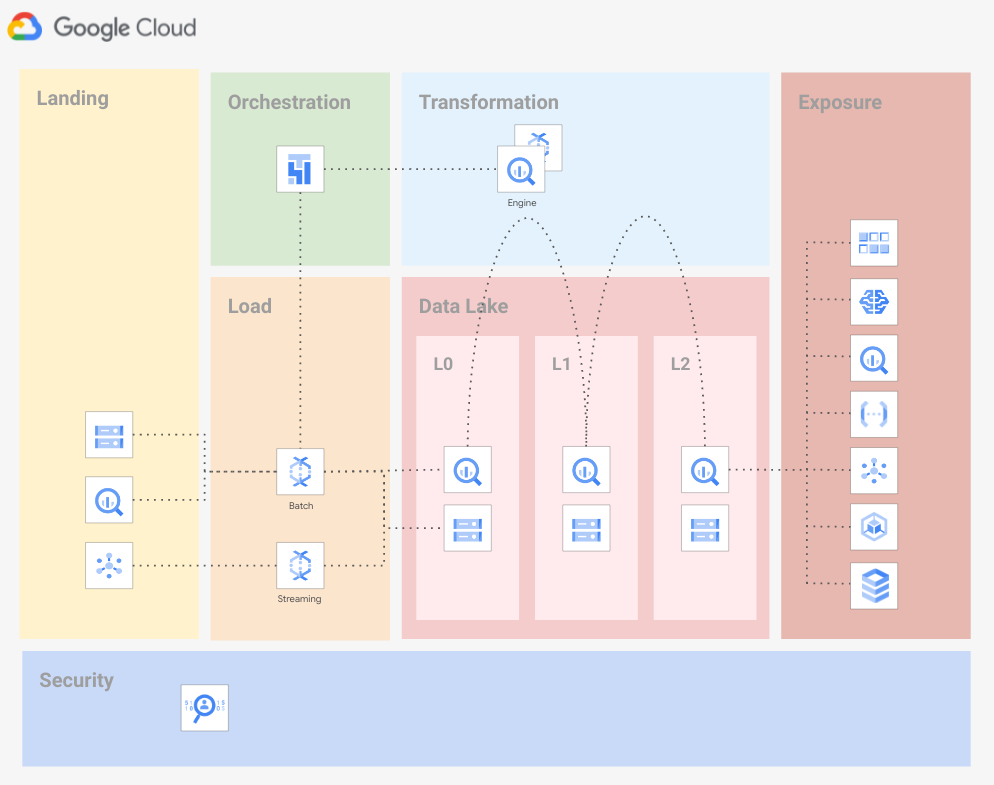
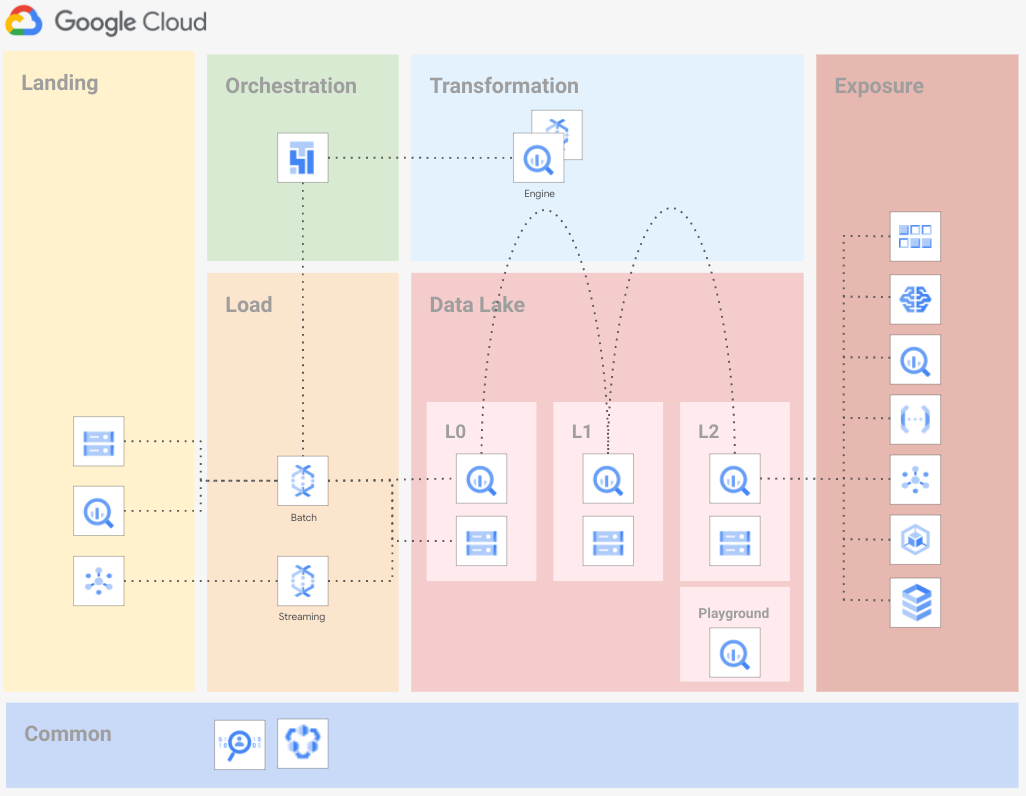
Fix issues & readme

diff --git a/examples/data-solutions/dp-foundation/demo/datapipeline.py b/examples/data-solutions/dp-foundation/demo/datapipeline.py
@@ -29,26 +29,39 @@ from airflow.providers.google.cloud.operators.bigquery import  BigQueryInsertJob
 
 # --------------------------------------------------------------------------------
 # Set variables
-# --------------------------------------------------------------------------------
-
-LND_GCS = os.environ.get("LND_GCS")
-ORC_GCS = os.environ.get("ORC_GCS")
-LOD_GCS_STAGING = os.environ.get("LOD_GCS_STAGING")
-DTL_L0_BQ_DATASET = os.environ.get("DTL_L0_BQ_DATASET")
+# ------------------------------------------------------------
 DTL_L0_PRJ = os.environ.get("DTL_L0_PRJ")
-DTL_L1_BQ_DATASET = os.environ.get("DTL_L1_BQ_DATASET")
+DTL_L0_BQ_DATASET = os.environ.get("DTL_L0_BQ_DATASET")
+DTL_L0_GCS = os.environ.get("DTL_L0_GCS")
 DTL_L1_PRJ = os.environ.get("DTL_L1_PRJ")
-DTL_L2_BQ_DATASET = os.environ.get("DTL_L2_BQ_DATASET")
+DTL_L1_BQ_DATASET = os.environ.get("DTL_L1_BQ_DATASET")
+DTL_L1_GCS = os.environ.get("DTL_L1_GCS")
 DTL_L2_PRJ = os.environ.get("DTL_L2_PRJ")
+DTL_L2_BQ_DATASET = os.environ.get("DTL_L2_BQ_DATASET")
+DTL_L2_GCS = os.environ.get("DTL_L2_GCS")
+DTL_PLG_PRJ = os.environ.get("DTL_PLG_PRJ")
+DTL_PLG_BQ_DATASET = os.environ.get("DTL_PLG_BQ_DATASET")
+DTL_PLG_GCS = os.environ.get("DTL_PLG_GCS")
+GCP_REGION = os.environ.get("GCP_REGION")
+LND_PRJ = os.environ.get("LND_PRJ")
+LND_BQ = os.environ.get("LND_BQ")
+LND_GCS = os.environ.get("LND_GCS")
+LND_PS = os.environ.get("LND_PS")
 LOD_PRJ = os.environ.get("LOD_PRJ")
-DF_ZONE = os.environ.get("GCP_REGION") + "-b"
-DF_REGION = BQ_REGION = os.environ.get("GCP_REGION")
+LOD_GCS_STAGING = os.environ.get("LOD_GCS_STAGING")
 LOD_NET_VPC = os.environ.get("LOD_NET_VPC")
 LOD_NET_SUBNET = os.environ.get("LOD_NET_SUBNET")
 LOD_SA_DF = os.environ.get("LOD_SA_DF")
+ORC_PRJ = os.environ.get("ORC_PRJ")
+ORC_GCS = os.environ.get("ORC_GCS")
+TRF_PRJ = os.environ.get("TRF_PRJ")
+TRF_GCS_STAGING = os.environ.get("TRF_GCS_STAGING")
+TRF_NET_VPC = os.environ.get("TRF_NET_VPC")
+TRF_NET_SUBNET = os.environ.get("TRF_NET_SUBNET")
 TRF_SA_DF = os.environ.get("TRF_SA_DF")
 TRF_SA_BQ = os.environ.get("TRF_SA_BQ")
-TRF_PRJ = os.environ.get("TRF_PRJ")
+DF_ZONE = os.environ.get("GCP_REGION") + "-b"
+DF_REGION = BQ_REGION = os.environ.get("GCP_REGION")
 
 # --------------------------------------------------------------------------------
 # Set default arguments
@@ -77,7 +90,7 @@ default_args = {
     'serviceAccountEmail': LOD_SA_DF,
     'subnetwork': LOD_NET_SUBNET,
     'ipConfiguration': "WORKER_IP_PRIVATE"
-  },  
+  },
 }
 
 # --------------------------------------------------------------------------------
@@ -131,9 +144,8 @@ with models.DAG(
     location=BQ_REGION,
     configuration={
       'jobType':'QUERY',
-      'writeDisposition':'WRITE_TRUNCATE',
       'query':{
-        'query':"""SELECT  
+        'query':"""SELECT
                   c.id as customer_id,
                   p.id as purchase_id,
                   c.name as name,
@@ -142,17 +154,18 @@ with models.DAG(
                   p.price as price,
                   p.timestamp as timestamp
                 FROM `{dtl_0_prj}.{dtl_0_dataset}.customers` c
-                JOIN `{dtl_0_prj}.{dtl_0_dataset}.purchases` p ON c.id = p.customer_id 
+                JOIN `{dtl_0_prj}.{dtl_0_dataset}.purchases` p ON c.id = p.customer_id
               """.format(dtl_0_prj=DTL_L0_PRJ, dtl_0_dataset=DTL_L0_BQ_DATASET, ),
         'destinationTable':{
           'projectId': DTL_L1_PRJ,
           'datasetId': DTL_L1_BQ_DATASET,
-          'tableId': 'customer_purchase'          
+          'tableId': 'customer_purchase'
         },
+        'writeDisposition':'WRITE_TRUNCATE',
         "useLegacySql": False
       }
     },
-    impersonation_chain=[TRF_SA_BQ]    
+    impersonation_chain=[TRF_SA_BQ]
   )
 
   l2_customer_purchase = BigQueryInsertJobOperator(
@@ -162,9 +175,8 @@ with models.DAG(
     location=BQ_REGION,
     configuration={
       'jobType':'QUERY',
-      'writeDisposition':'WRITE_TRUNCATE',
       'query':{
-        'query':"""SELECT  
+        'query':"""SELECT
                      customer_id,
                      purchase_id,
                      name,
@@ -177,12 +189,13 @@ with models.DAG(
         'destinationTable':{
           'projectId': DTL_L2_PRJ,
           'datasetId': DTL_L2_BQ_DATASET,
-          'tableId': 'customer_purchase'          
+          'tableId': 'customer_purchase'
         },
+        'writeDisposition':'WRITE_TRUNCATE',
         "useLegacySql": False
       }
     },
-    impersonation_chain=[TRF_SA_BQ]    
+    impersonation_chain=[TRF_SA_BQ]
   )
-  
+
   start >> [customers_import, purchases_import] >> join_customer_purchase >> l2_customer_purchase >> end

diff --git a/examples/data-solutions/dp-foundation/README.md b/examples/data-solutions/dp-foundation/README.md
@@ -2,11 +2,13 @@
 
 This module implements an opinionated Data Platform (DP) Architecture that creates and setup projects (and related resources) to be used to create your DP.
 
-The code is intentionally simple, as it's intended to provide a generic initial setup (Networking, Security, etc.), and then allow easy customizations to complete the implementation of the intended hierarchy design.
+The code is intentionally simple, as it's intended to provide a generic initial setup (Networking, Cloud Storage Buckets, BigQuery datasets, etc.), and then allow easy customizations to complete the implementation of the intended design.
 
 The following diagram is a high-level reference of the resources created and managed here:
 
 ![Data Platform architecture overview](./images/overview_diagram.png "Data Platform architecture overview")
+
+A demo pipeline is also part of this example: it can be built and run on top of the foundational infrastructure to quickly verify or test the setup.
 
 ## Design overview and choices
 Despite its simplicity, this stage implements the basics of a design that we've seen working well for a variety of customers.
@@ -37,10 +39,10 @@ The following projects will be created:
   - **L0 - Raw data** Structured Data, stored in the adequate format: structured data stored in BigQuery, unstructured data stored on Cloud Storage with additional metadata stored in BigQuery (for example pictures stored in Cloud Storage and analysis of the picture for Cloud Vision API stored in BigQuery). 
   - **L1 - Cleansed, aggregated and standardized data**
   - **L2 - Curated layer**
-  - **Experimental** Store temporary tables that Data Analyst may use to perform R&D on data available on other Data Lake layers
+  - **Playground** Store temporary tables that Data Analyst may use to perform R&D on data available on other Data Lake layers
 - **Orchestration** This project is intended to host Cloud Composer. Cloud Composer will orchestrate all tasks to move your data on its journey.
 - **Transformation** This project is intended to host resources to move data from one layer of the Data Lake to the other. We strongly suggest relying on BigQuery engine to perform transformations. If BigQuery doesn't have the feature needed to perform your transformation you suggest using Cloud Dataflow. The use of [Cloud Dataflow templates](https://cloud.google.com/dataflow/docs/concepts/dataflow-templates) is suggested. Anonymization/tokenization Personally Identifiable Information can be applied at this stage or in the transformation stage depending on your requirements.
-- **Exposure** This project is intended to host resources to expose your data. To expose BigQuery data, we strongly suggest relying on Authorized views. Other resources may better fit a particular data access pattern, example: Cloud SQL may be needed if you need to expose data with low latency, BigTable may be needed in a use case where you need lower latency to access data.
+- **Exposure** This project is intended to host resources to expose your data. To expose BigQuery data, we strongly suggest relying on Authorized views. Other resources may better fit a particular data access pattern, example: Cloud SQL may be needed if you need to expose data with low latency, BigTable may be needed in a use case where you need lower latency to access data. For the porpuse of this example, no resources will be deployed on this project, please customize the exple as needed.
 
 ### Roles
 We assigned roles on resources at project-level assigning the appropriate role to groups. We recommend not adding human users directly to the resource-access groups with IAM permissions to access data.
@@ -60,7 +62,7 @@ Whilst necessary in some scenarios, such as programmatic access from on-premise 
 ### Groups
 As default groups, we identified the following actors:
 - *Data Engineers*: the group that handles and runs the Data Hub. The group has Read access to all resources to be able to troubleshoot possible issues with the pipeline. The team also can impersonate all service accounts. Default value: `gcp-data-engineers@DOMAIN.COM`. 
-- *Data Analyst*: the group that performs analysis on the dataset. The group has Read access to the Data Lake L2 project and BigQuery READ/WRITE access to the `experimental` project. Default value: `gcp-data-analyst@DOMAIN.COM`
+- *Data Analyst*: the group that performs analysis on the dataset. The group has Read access to the Data Lake L2 project and BigQuery READ/WRITE access to the `playground` project. Default value: `gcp-data-analyst@DOMAIN.COM`
 - *Data Security*: the project that handles security features related to the Data Hub. Default name: `gcp-data-security@DOMAIN.com`
 ### Virtual Private Cloud (VPC) design
 The DP except as input an existing [Shared-VPC](https://cloud.google.com/vpc/docs/shared-vpc) to run resources. You can configure subsets for DP resources specifying the link to the subnet in the `network_config` variable. You may want to configure a shared-VPC to run your resources in the case your pipelines may need to reach on-premise resources.
@@ -74,7 +76,7 @@ To run your DP resources you need the following ranges:
   - Cloud SQL. Range: '/24'
   - GKE Master. Range: '/28'
   - Web Server: Range: '/28'
-  - Secondary IP ranges. Pods range: '/22', Services range: '/24'  
+  - Secondary IP ranges. Pods range: '/22', Services range: '/24'
 
 ### Resource naming convention
 Resources in the script use the following acronyms:
@@ -130,6 +132,11 @@ We implemented a centralized model for Cloud Data Loss Prevention resources. Tem
 ![Centralized Cloud Data Loss Prevention high-level diagram](./images/dlp_diagram.png "Centralized Cloud Data Loss Prevention high-level diagram")
 
 ## How to run this script
+In order to bring up this example, you will need
+
+- a folder or organization where new projects will be created
+- a billing account that will be associated to new projects
+
 The DP is meant to be executed by a Service Account (or a regular user) having this minimal set of permission:
 * **Org level**:
   * `"compute.organizations.enableXpnResource"`
